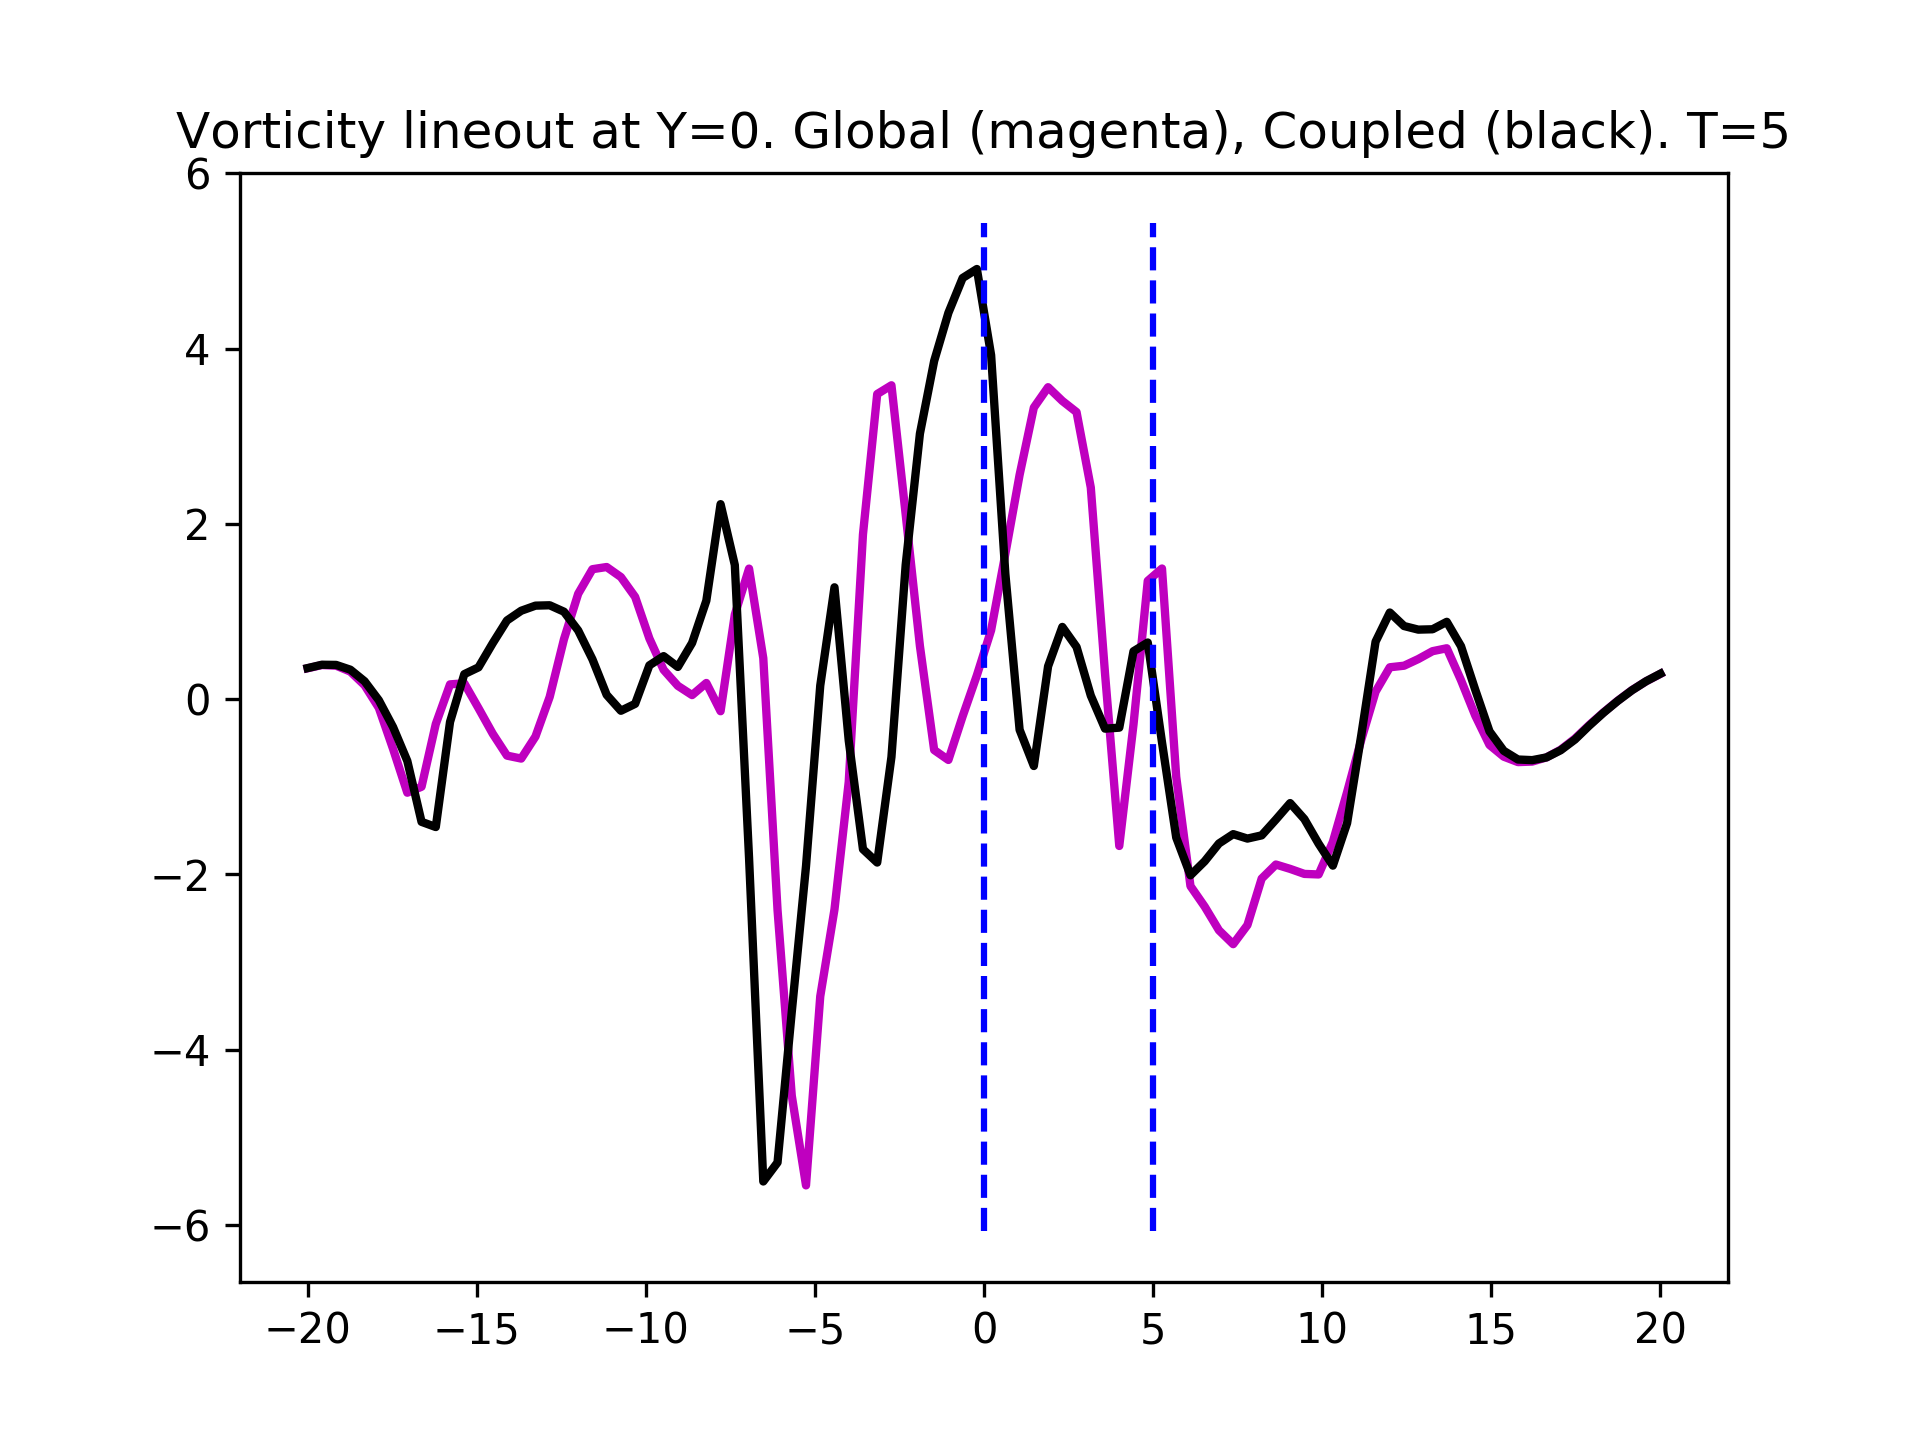
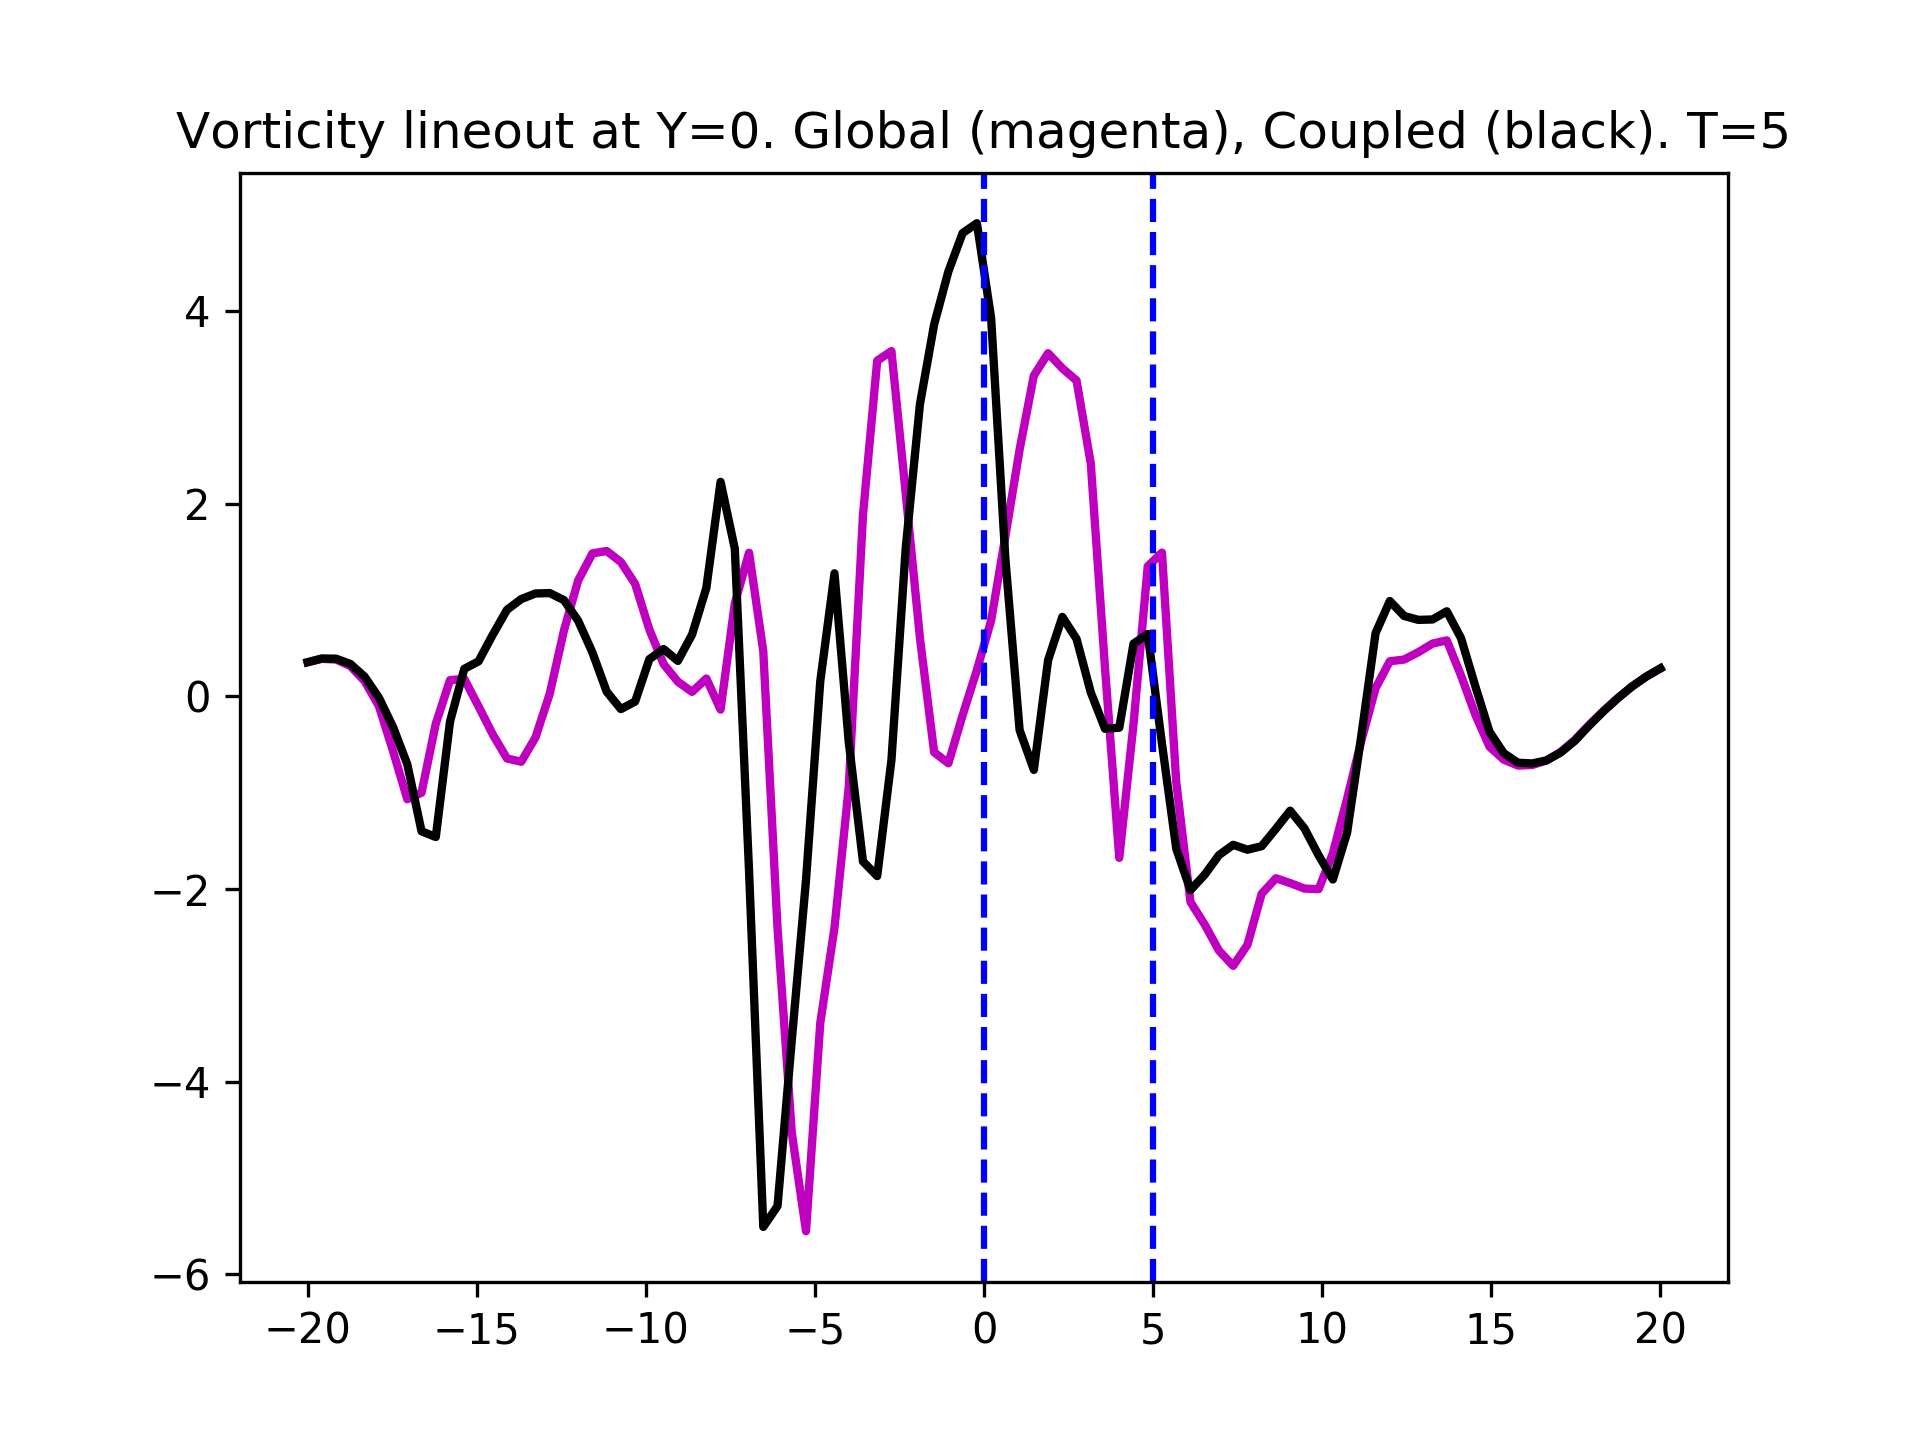
Fixed typos, spellings etc. Notes online as JE30

diff --git a/sims-2/coupled-hw/c3/plot-res.py b/sims-2/coupled-hw/c3/plot-res.py
@@ -49,10 +49,11 @@ X1 = linspace(-20, 20, 96)
 f = figure(3)
 plot(X1, chiS[:,96/2], 'm-', X1, chiC[:,96/2], 'k-', linewidth=2)
 yl = gca().get_ylim()
+autoscale(False, tight=True)
 plot([0,0], yl, 'b--')
 plot([5,5], yl, 'b--')
 title('Vorticity lineout at Y=0. Global (magenta), Coupled (black). T=5')
-
+tight_layout()
 savefig('c3-coupled-chi-1d-cmp-t5.png', dpi=300, layout='tight')
 
 # Late time

diff --git a/je/je30/je30-coupled-hw.rst b/je/je30/je30-coupled-hw.rst
@@ -1,6 +1,6 @@
 :Author: Ammar Hakim
 :Date: 16th August 2017
-:Completed: 
+:Completed: 16th August 2017
 :Last Updated:
 
 JE30: Solving the Hasegawa-Wakatani equations on overlapping domains
@@ -20,7 +20,7 @@ Introduction
 
 Plasma dynamics occurs on a vast range of spatial and temporal
 scales. Often, specialized tools are developed to study one aspect of
-plasma physics, treating other aspects usings simplified models or
+plasma physics, treating other aspects using simplified models or
 boundary conditions. One way to reuse existing tools to simulate more
 complete physics is to couple solvers (codes) together, each solver
 working on a different region, the coupling between them provided by
@@ -58,7 +58,7 @@ In these equations, :math:`\alpha` is a constant, making the problem
 2D. The goal of this note is to solve the H-W equations on two
 overlapping domains and compare the results with a global, single
 domain result. This will allow studying stability and effectiveness of
-proposed couplig schemes, giving guidance on how to proceed with the
+proposed coupling schemes, giving guidance on how to proceed with the
 more complex case of coupling the two gyrokinetic codes together.
 
 Coupling Scheme
@@ -86,7 +86,7 @@ coupling algorithm has the following steps: In *each* RK stage do
   domain are filled with the appropriate interior values from the
   other domain.
 
-- From the updated vorticity compute a global voriticity that takes
+- From the updated vorticity compute a global vorticity that takes
   the left/right domain values in the non-overlapping region, and
   takes average values in the overlapping region.
 
@@ -97,7 +97,7 @@ coupling algorithm has the following steps: In *each* RK stage do
   local fields stored on each sub-domain.
 
 For completeness: I use a piecewise quadratic Serendipity basis
-discontinous Galerkin scheme to evolve the vorticity and
+discontinuous Galerkin scheme to evolve the vorticity and
 number-density, and a :math:`C^0` finite-element method to update the
 potential. For time-stepping I use a strong-stability preserving third
 order Runge-Kutta (SSP-RK3) scheme. The coupling is performed after
@@ -135,7 +135,7 @@ roundoff errors in the sequence of steps (i.e. in finite precision,
 for example, operators that otherwise commute, don't) can eventually
 add up, leading to a different turbulent realization. Note that for a
 turbulent simulation this is to be expected. What we want is to
-recover the *statistical behaviour*, even though the exact
+recover the *statistical behavior*, even though the exact
 realizations of the turbulent flow field may be different.
 
 Early in time, drift wave turbulence is developing the global and
@@ -171,7 +171,7 @@ if this is really a problem. For turbulent flows, it is likely that
 any errors (even machine-precision errors) will eventually build up
 enough to lead to a different realization of the flow. The question we
 must ask: **what are metrics for comparing results of turbulent
-flows?** Perhaps one should look at time-average fluxes or tubulent
+flows?** Perhaps one should look at time-average fluxes or turbulent
 spectra etc. 
 
 Results: 10% noise at coupling boundaries
@@ -209,7 +209,6 @@ the differences in the solution more clearly:
   at which coupling boundary conditions are applied, and the region
   between them is the overlap region. The global and coupled
   simulations show *different* realizations of the flow.
-  perturbations lead to different realizations of the flow.
 
 Late in time when the system has become turbulent the solutions look
 visually different, but seem to be statistically similar. See below:
@@ -222,8 +221,8 @@ visually different, but seem to be statistically similar. See below:
   Vorticity at :math:`t=5` from global (left) and coupled (right)
   simulations. White vertical lines represent locations at which
   coupling boundary conditions are applied, and the region between
-  them is the overlap region. Even though early in time, the random
-  perturbations lead to different realizations of the flow.
+  them is the overlap region. The random perturbations lead to
+  different realizations of the flow.
 
 Conclusions (provisional)
 -------------------------
@@ -236,7 +235,7 @@ itself is turbulent. This will be case in the case of the gyrokinetic
 coupling also as the system is inherently turbulent.
 
 Solving the potential equation globally may not be the best way to
-move formward. Note that as the potential evolves in configuration
+move forward. Note that as the potential evolves in configuration
 space (and not phase-space) it is very cheap to update (compared to
 updating the distribution function). However, the software mechanisms
 to move number density and currents (and potential) between two codes
